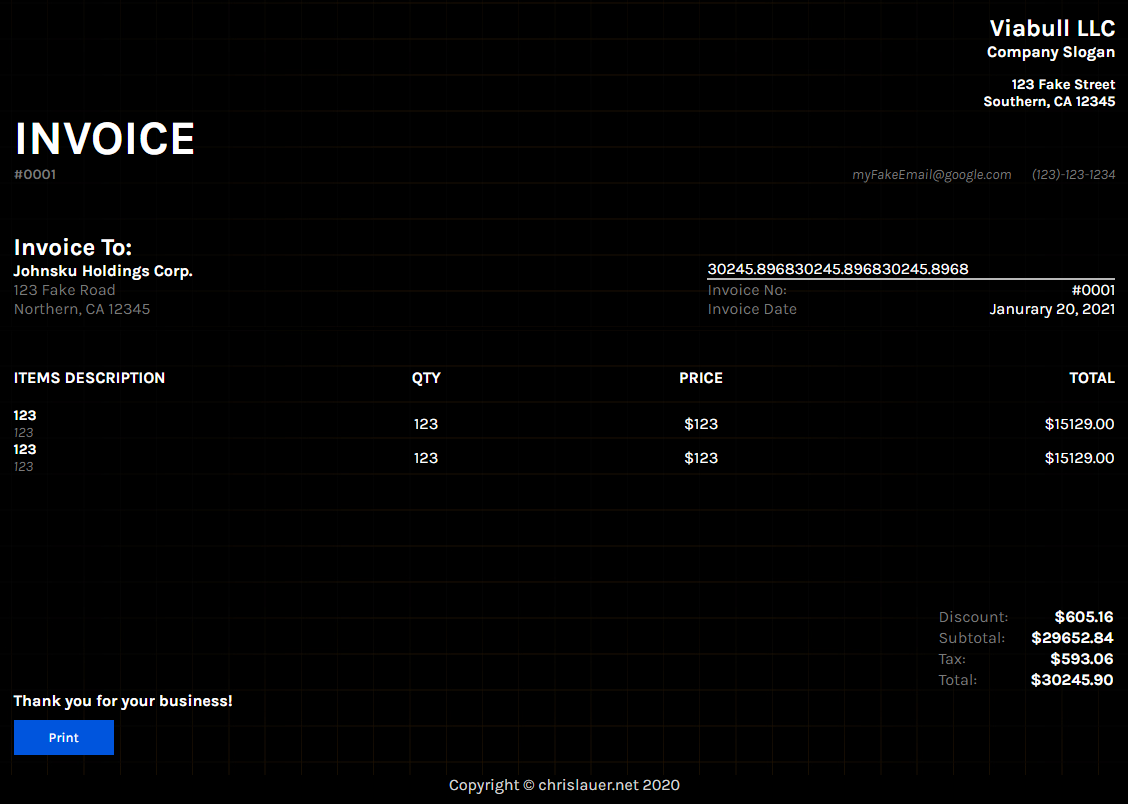
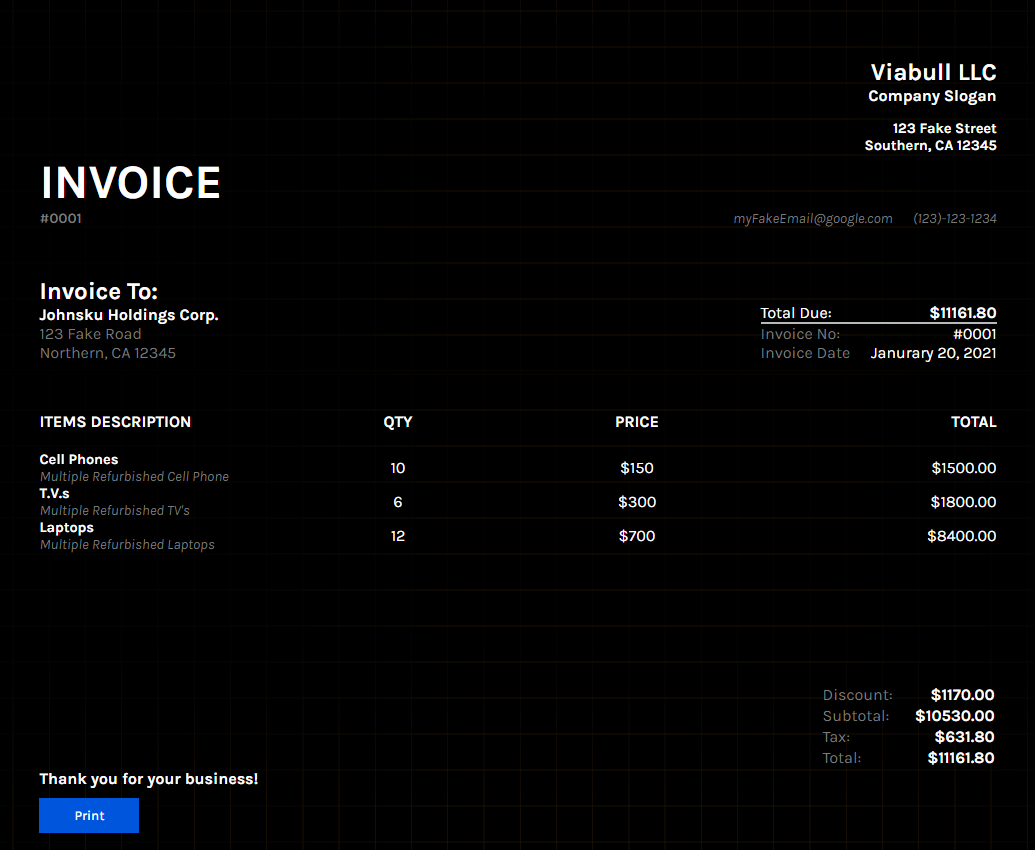
Layout Fixes
Images Added

diff --git a/views/scripts/script.js b/views/scripts/script.js
@@ -435,7 +435,7 @@ let revealData = (data) => {
     } else {
         invoiceHead = $('#invoiceHead'); 
         $('#item-input-form').remove();
-        invoiceHead.html('<div class="invoice-one-column-head"><div><h1 class="heading-style-2 print-color-1">'+data.senderName+'</h1><h4 class="heading-style-3 print-color-1">Company Slogan</h4></div><div class="pad-top-20"><h4 class="heading-style-4 print-color-1">'+data.senderAddress+'</h4><h4 class="heading-style-4 print-color-1">'+data.senderAddress2+'</h4></div></div><div class="invoice-two-column-head"><div><h1 class="heading-style-1 print-color-1">Invoice</h1><h4 class="heading-style-4 print-color-2">#0001</h4></div><div class="inline"><ul><li class="print-li print-color-2">'+data.senderEmail+'</li><li class="print-li print-color-2">'+data.senderTele+'</li></ul></div></div><div class="invoice-two-column-head-rec-details"><div><h2 class="heading-style-2 print-color-1">Invoice To:</h2><h3 class="heading-style-3 print-color-1">'+data.recName+'</h3><p class="print-color-2 fs-med">'+data.recCompanyAdd+'</p><p class="print-color-2 fs-med">'+data.recCompanyAdd2+'</p></div><div><table class="invoice-display-table"><tr class="underline"><td class="print-color-1 align-right">Total Due:</td><td class="print-color-1 bold align-right" id="grand-total-main"></td></tr><tr><td class="print-color-2">Invoice No:</td><td class="align-right print-color-1 pad-left-20">#0001</td></tr><tr><td class="print-color-2">Invoice Date</td><td class="align-right print-color-1 pad-left-20">Janurary 20, 2021</td></tr></table></div></div><div class="items-display"><table class="items-table" id="items-table"><tr><th>Items Description</th><th class="align-center">QTY</th><th class="align-center">PRICE</th><th class="align-right">TOTAL</th></tr>');
+        invoiceHead.html('<div class="invoice-one-column-head"><div><h1 class="heading-style-2 print-color-1">'+data.senderName+'</h1><h4 class="heading-style-3 print-color-1">Company Slogan</h4></div><div class="pad-top-20"><h4 class="heading-style-4 print-color-1">'+data.senderAddress+'</h4><h4 class="heading-style-4 print-color-1">'+data.senderAddress2+'</h4></div></div><div class="invoice-two-column-head"><div><h1 class="heading-style-1 print-color-1">Invoice</h1><h4 class="heading-style-4 print-color-2">#0001</h4></div><div class="inline"><ul><li class="print-li print-color-2">'+data.senderEmail+'</li><li class="print-li print-color-2">'+data.senderTele+'</li></ul></div></div><div class="invoice-two-column-head-rec-details"><div><h2 class="heading-style-2 print-color-1">Invoice To:</h2><h3 class="heading-style-3 print-color-1">'+data.recName+'</h3><p class="print-color-2 fs-med">'+data.recCompanyAdd+'</p><p class="print-color-2 fs-med">'+data.recCompanyAdd2+'</p></div><div><table class="invoice-display-table"><tr class="underline"><td class="print-color-1">Total Due:</td><td class="print-color-1 bold align-right" id="grand-total-main"></td></tr><tr><td class="print-color-2">Invoice No:</td><td class="align-right print-color-1 pad-left-20">#0001</td></tr><tr><td class="print-color-2">Invoice Date</td><td class="align-right print-color-1 pad-left-20">Janurary 20, 2021</td></tr></table></div></div><div class="items-display"><table class="items-table" id="items-table"><tr><th>Items Description</th><th class="align-center">QTY</th><th class="align-center">PRICE</th><th class="align-right">TOTAL</th></tr>');
         renderTotals(data)
     }
 }
